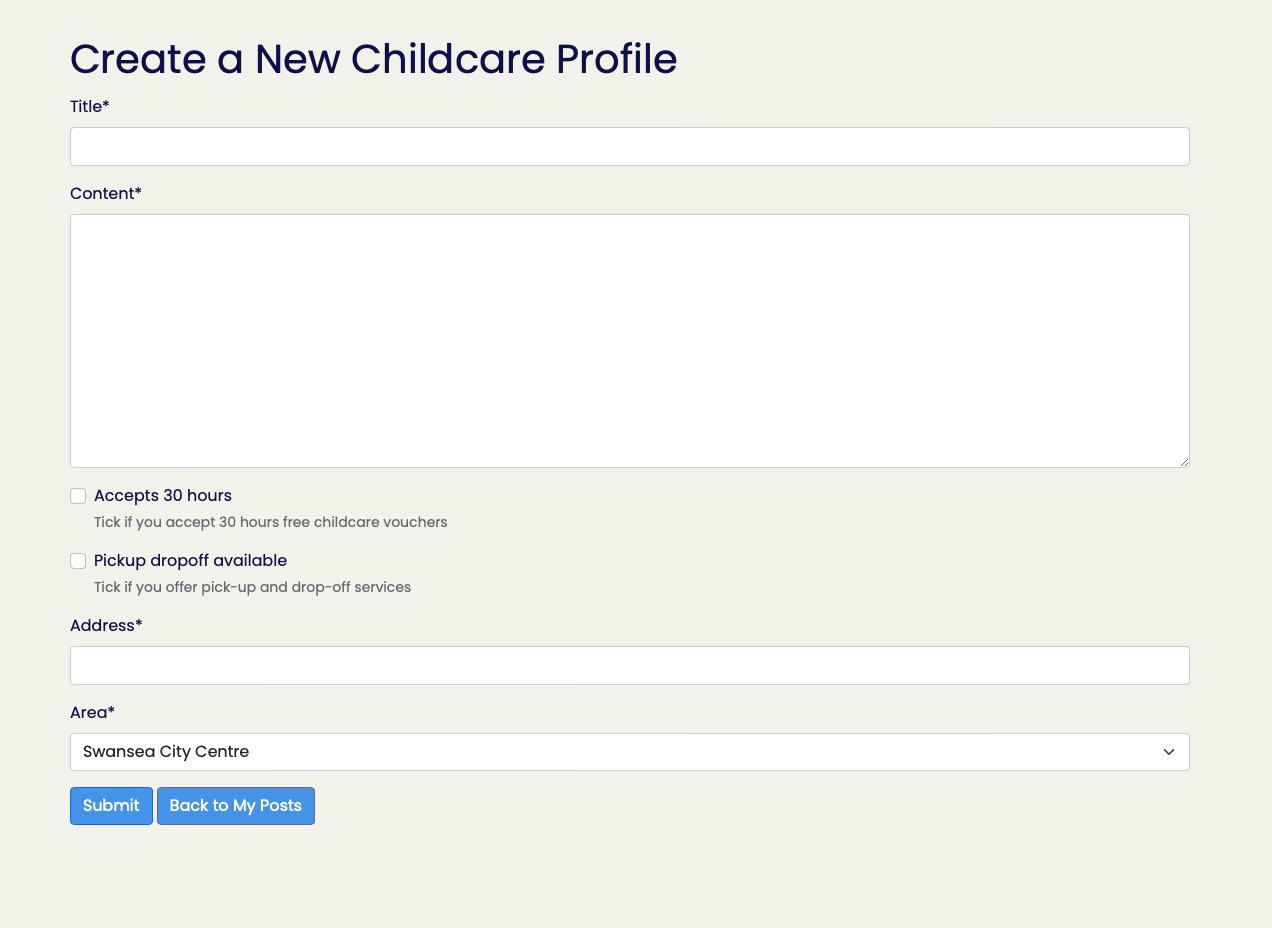
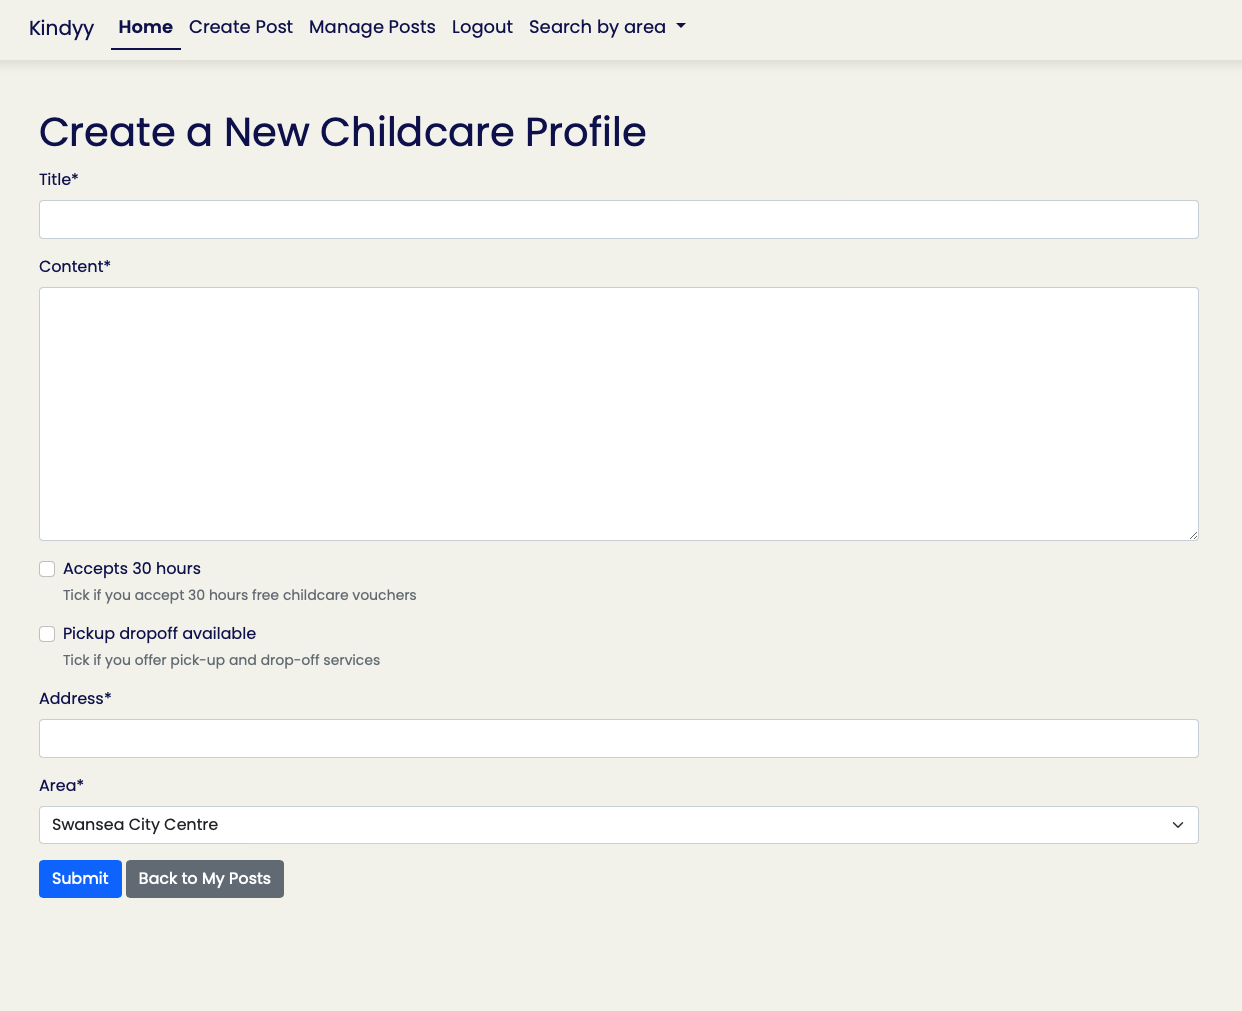
fix button css and update static files

diff --git a/static/css/style.css b/static/css/style.css
@@ -65,6 +65,31 @@ h4 {
     box-shadow: 0 4px 12px rgba(0, 0, 0, 0.1);
 }
 
+.navbar {
+    background-color: var(--color-bg);
+    color: var(--color-text);
+    border-radius: 1rem;
+    box-shadow: 0 4px 12px rgba(0, 0, 0, 0.1);
+}
+
+/* Override link colors inside navbar */
+.navbar .nav-link:hover {
+    color: var(--color-primary) !important;
+}
+
+/* Navbar links */  
+.navbar .nav-link {
+    color: var(--color-text) !important;
+    padding: 0.5rem 1rem;
+    transition: color 0.3s ease;
+} 
+.navbar .nav-link.active {
+    font-weight: bold;
+    color: var(--color-text) !important;
+    border-bottom: 2px solid var(--color-text);
+}
+
+/* Card Styles */
 .card {
     border-radius: 1rem;
     transition: transform 0.3s ease;
@@ -82,14 +107,14 @@ h4 {
 .container {
     max-width: 1200px;
     margin: 0rem auto;
-    padding: 20px;
+    padding: 10px;
     background-color: var(--color-bg);
     border-radius: 1rem;
 }
 
 /* Links and Buttons */
 a {
-    color: var(--color-primary-hover);
+    color: var(--color-text);
     text-decoration: none;
     transition: color 0.3s ease, opacity 0.3s ease;
 }
@@ -101,14 +126,18 @@ a:hover {
 }
 
 .btn {
-    background-color: var(--color-primary);
-    color: var(--color-surface);
     text-decoration: none;
     transition: color 0.3s ease, opacity 0.3s ease;
 }
 
 .btn:hover {
     opacity: 0.85;
+}
+
+.pagination a {
+    color: var(--color-text);
+    background-color: var(--color-accent);
+    transition: background-color 0.3s ease, color 0.3s ease;
 }
 
 /* Footer */
@@ -118,4 +147,9 @@ a:hover {
     text-align: center;
     padding: 1rem;
     border-radius: 1rem;
+}
+
+.footer a {
+    color: var(--color-text);
+    font-weight: bold;
 }

diff --git a/staticfiles/css/style.css b/staticfiles/css/style.css
@@ -126,8 +126,6 @@ a:hover {
 }
 
 .btn {
-    background-color: var(--color-primary);
-    color: var(--color-text);
     text-decoration: none;
     transition: color 0.3s ease, opacity 0.3s ease;
 }

diff --git a/childcare_platform/settings.py b/childcare_platform/settings.py
@@ -14,6 +14,7 @@ from pathlib import Path
 import os
 import dj_database_url
 if os.path.isfile('env.py'):
+    import env
     pass  # Add logic here if needed
 
 # Build paths inside the project like this: BASE_DIR / 'subdir'.git
